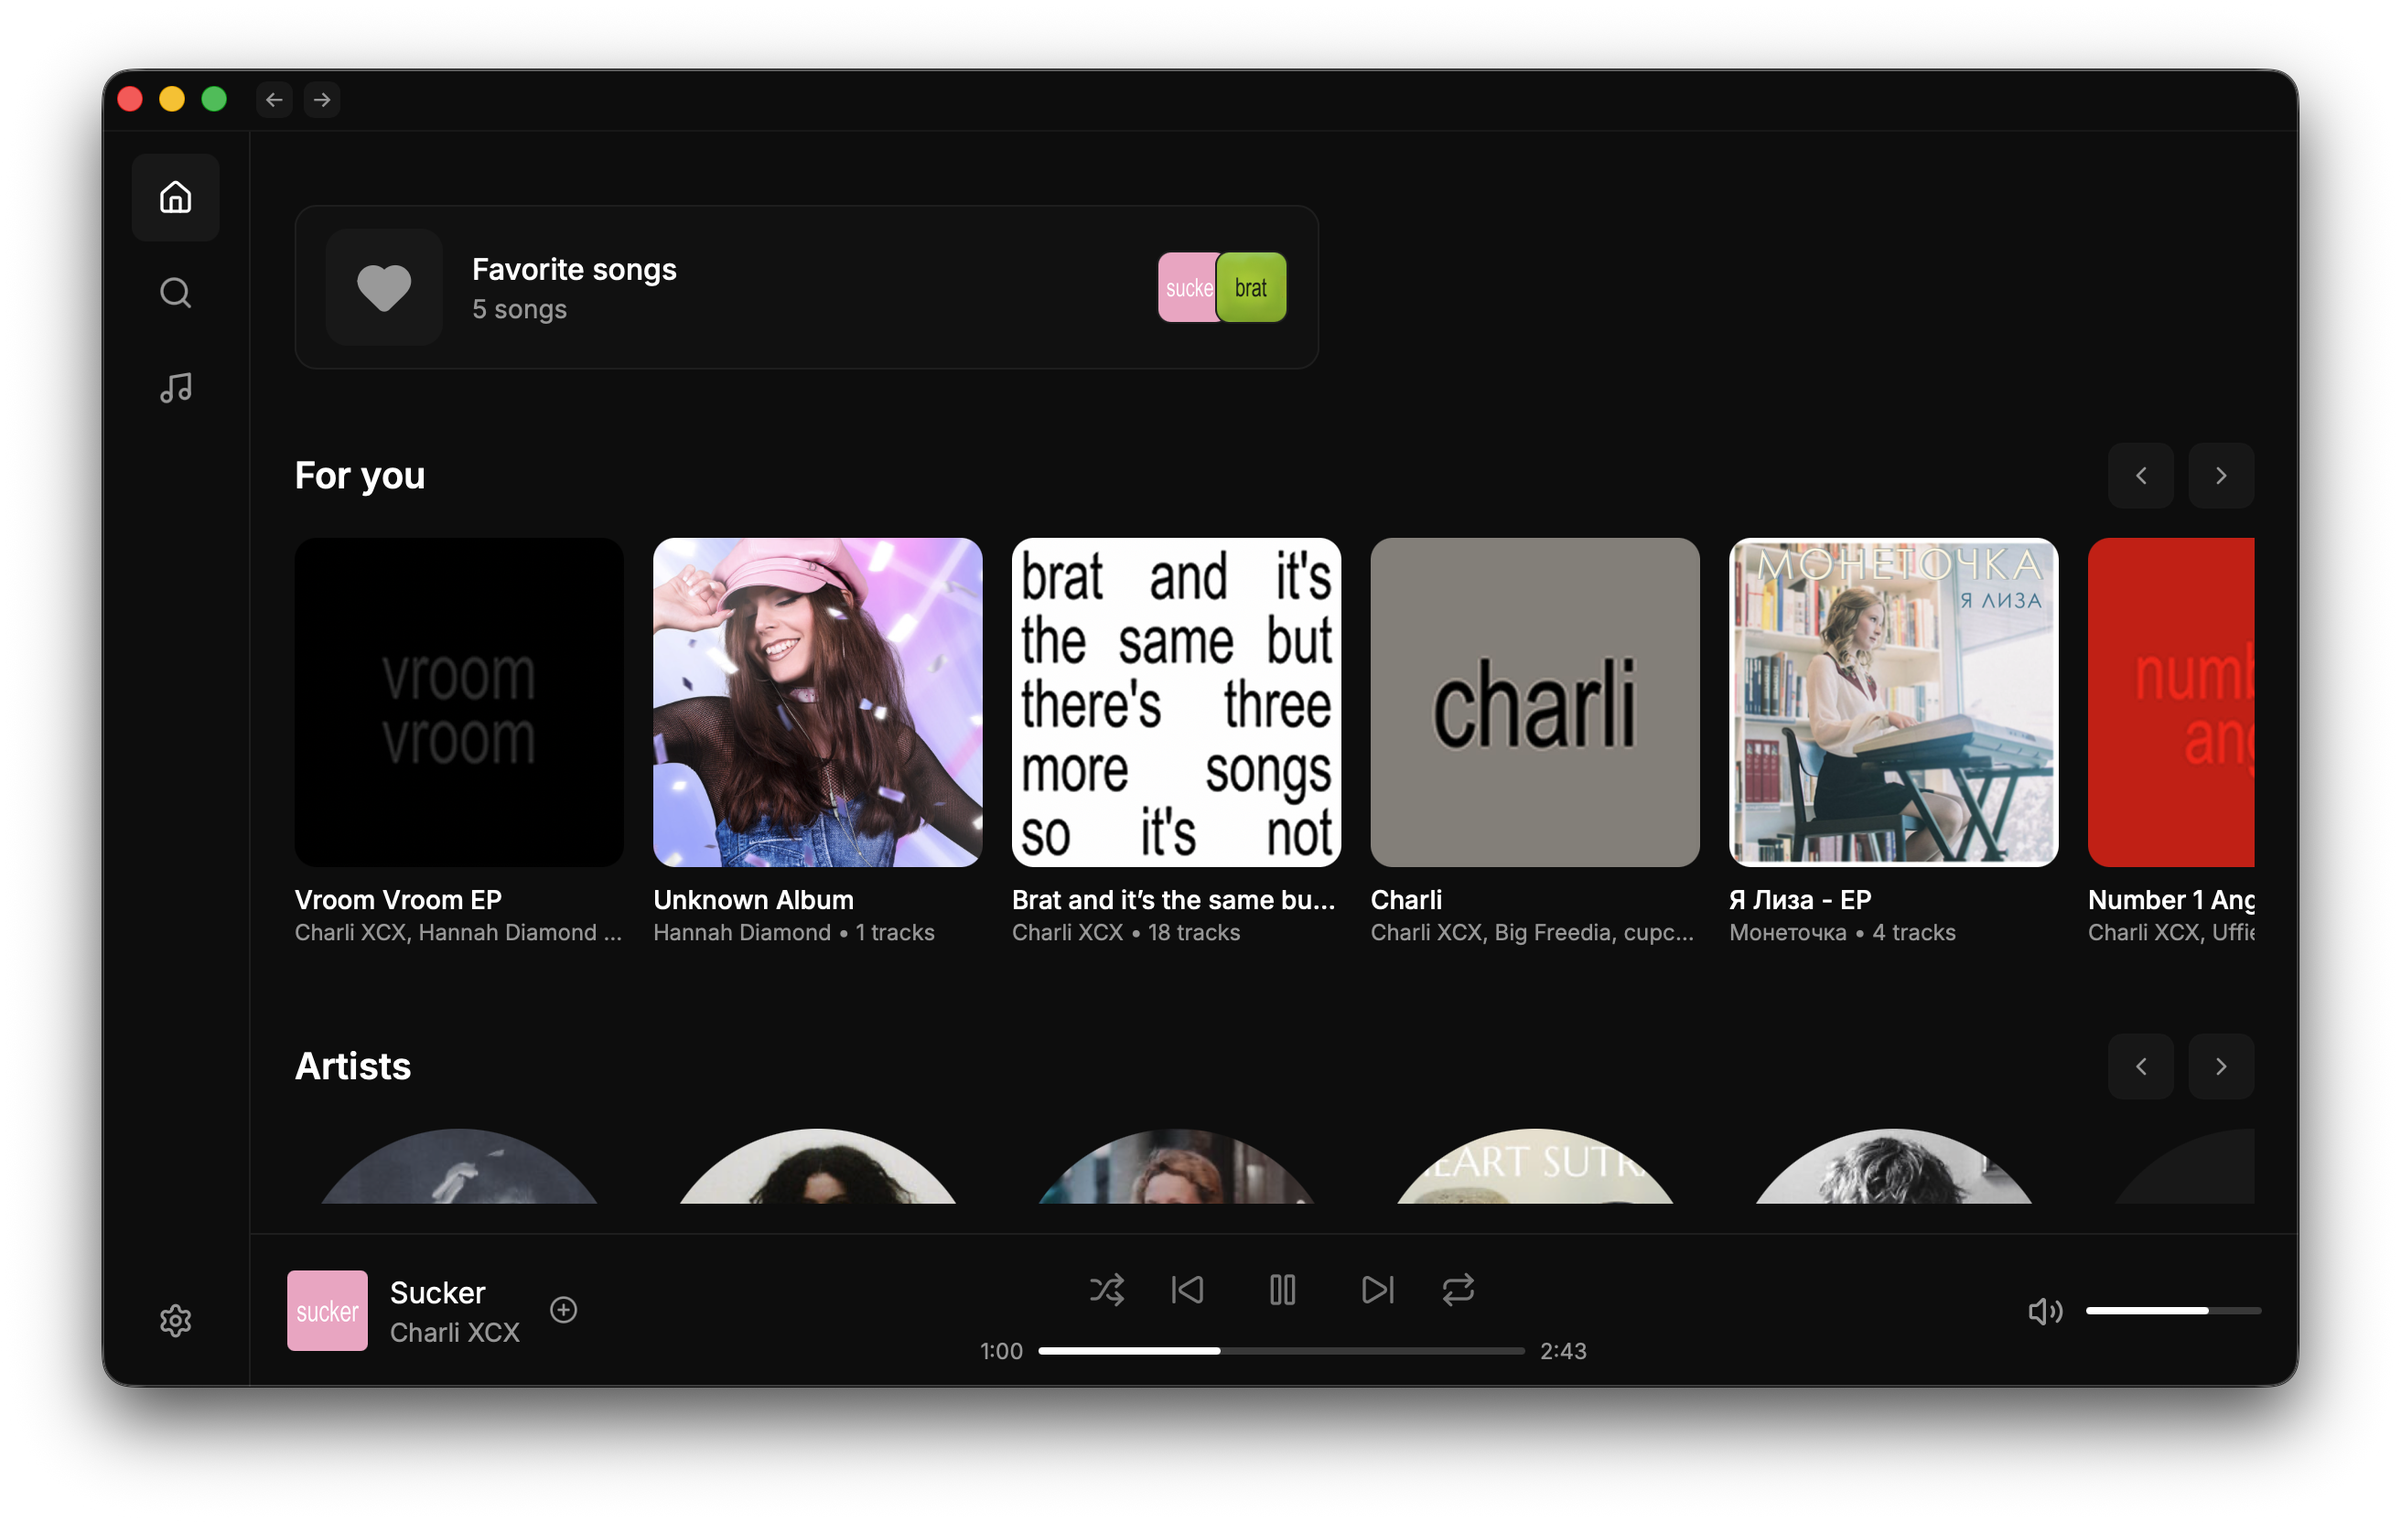
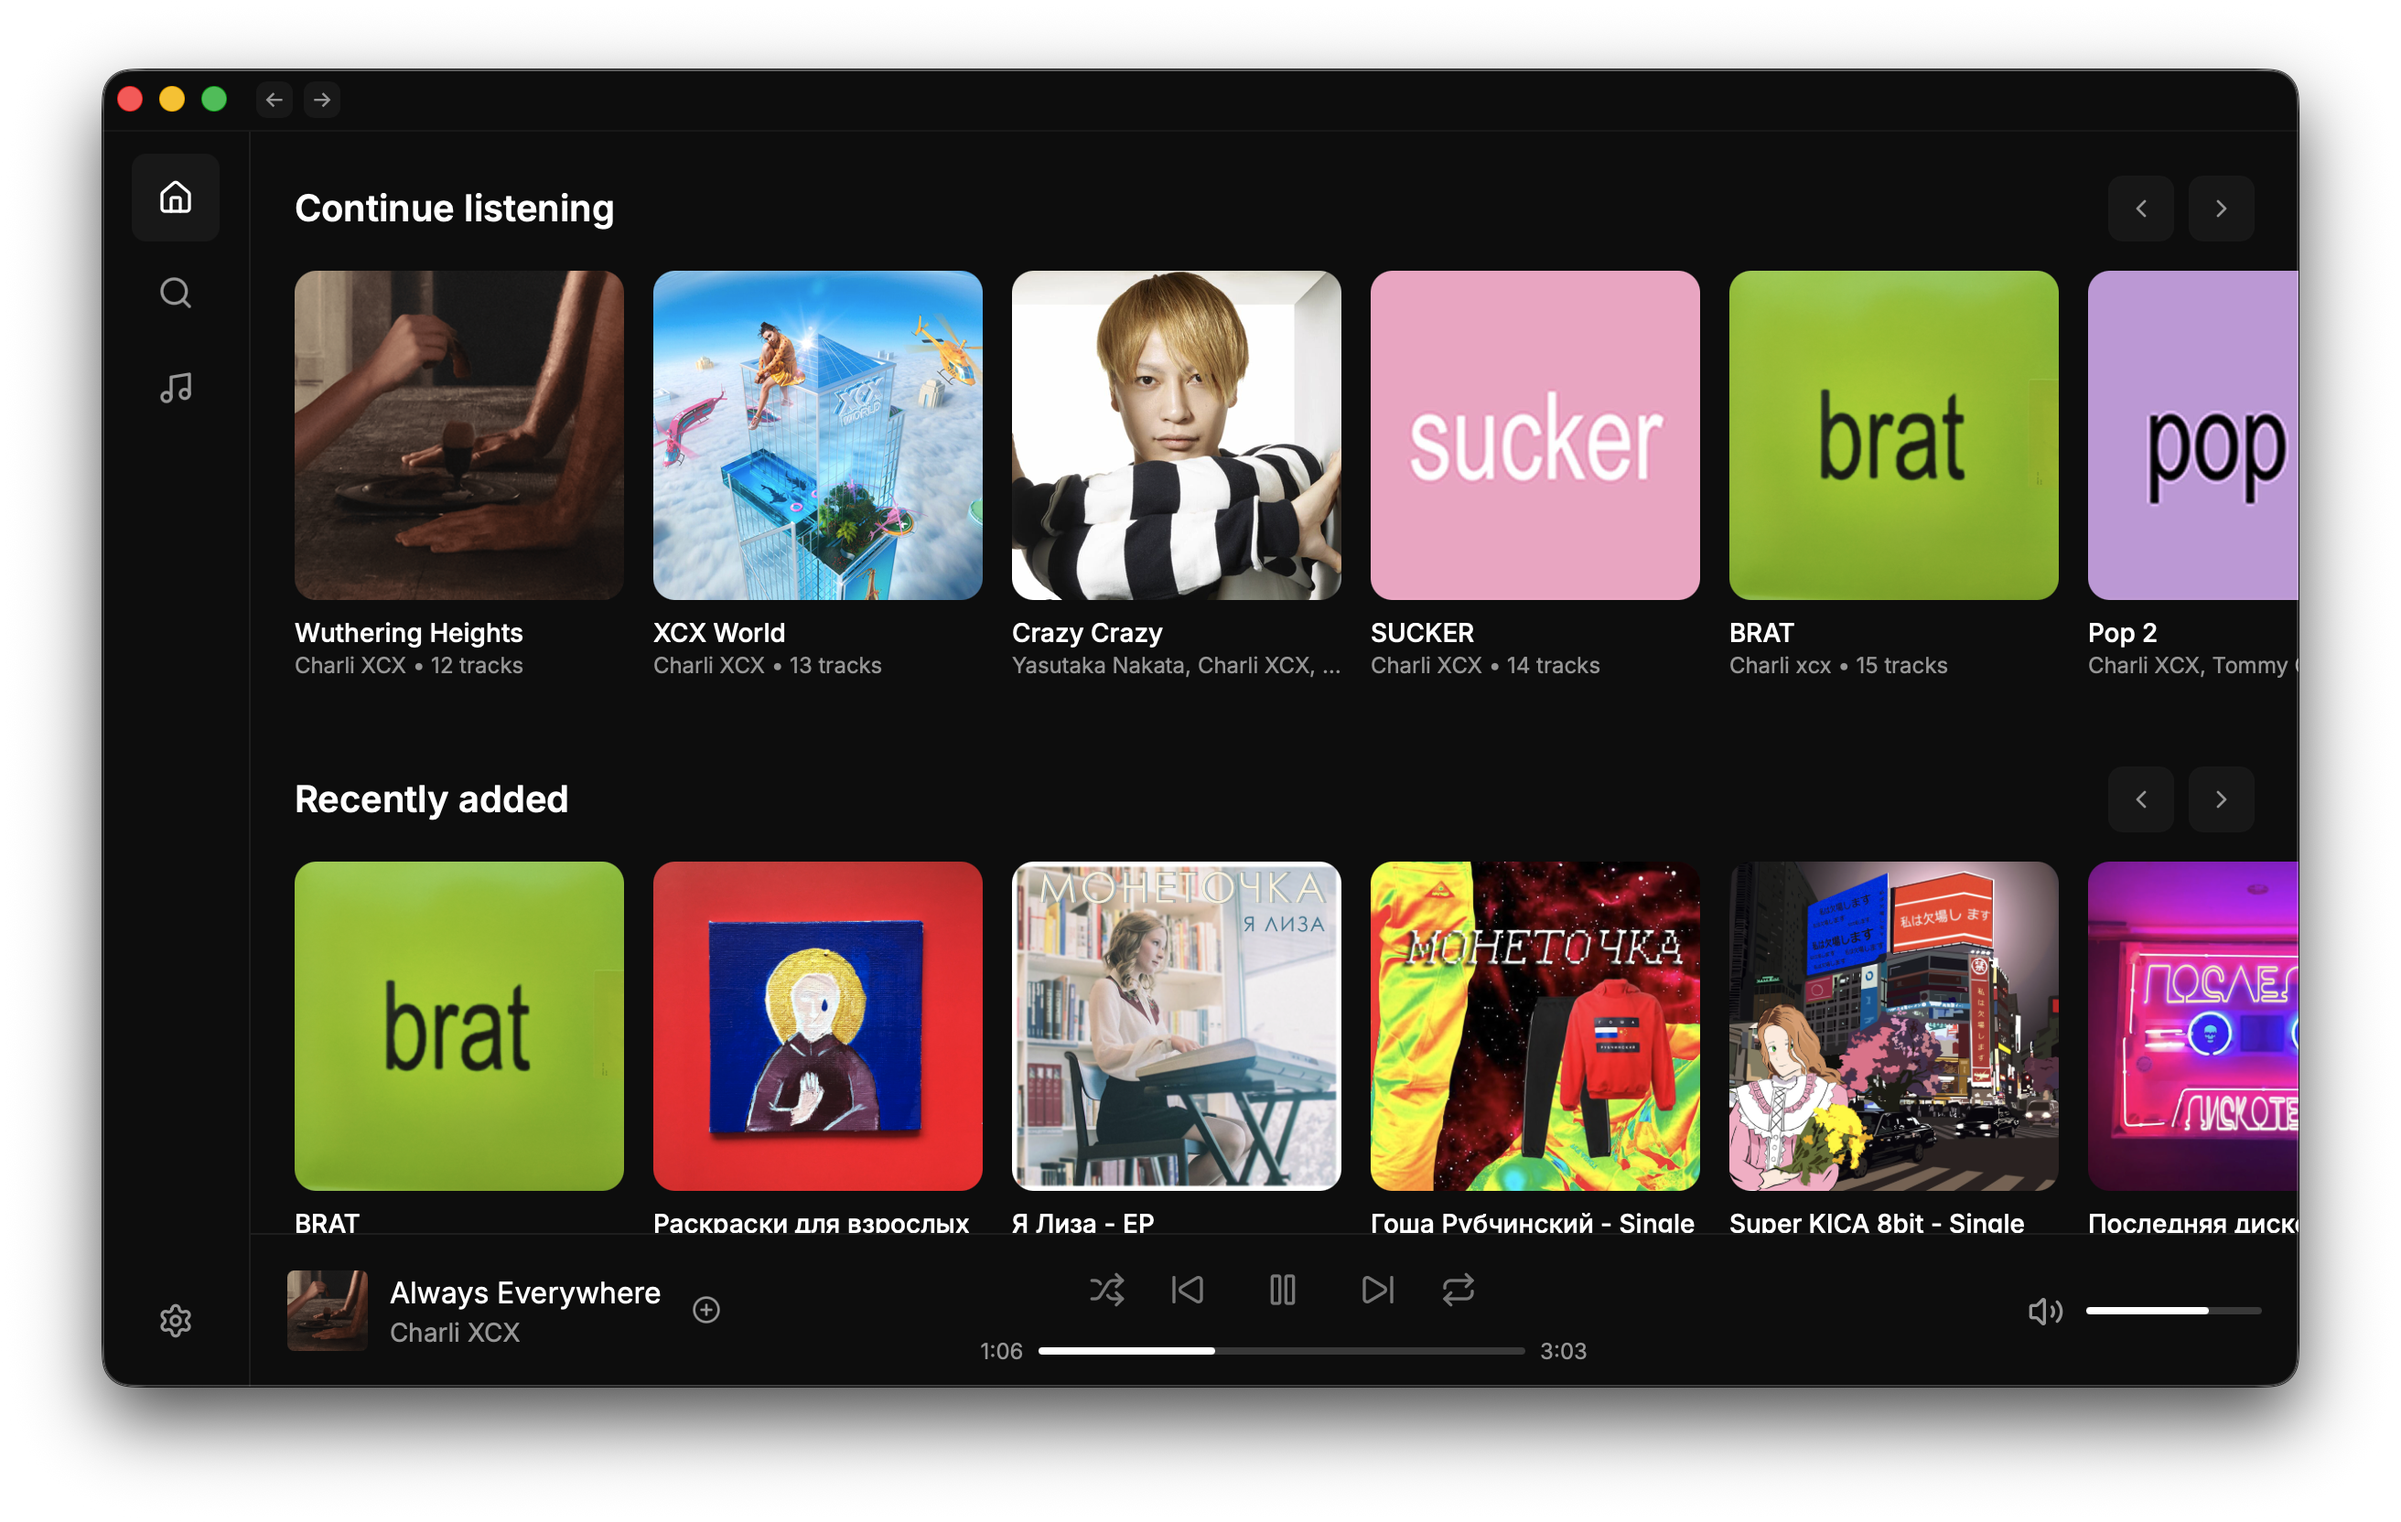
feat: refresh README interface screenshots

diff --git a/README.md b/README.md
@@ -17,6 +17,10 @@
     <br/>
     <img src="/resources/screenshot-2.png"
         title="Interface Screenshot 2" alt="Screenshot 2" width="700" />
+    <br/>
+    <br/>
+    <img src="/resources/screenshot-3.png"
+        title="Interface Screenshot 3" alt="Screenshot 3" width="700" />
 </div>
 
 > [!WARNING]
